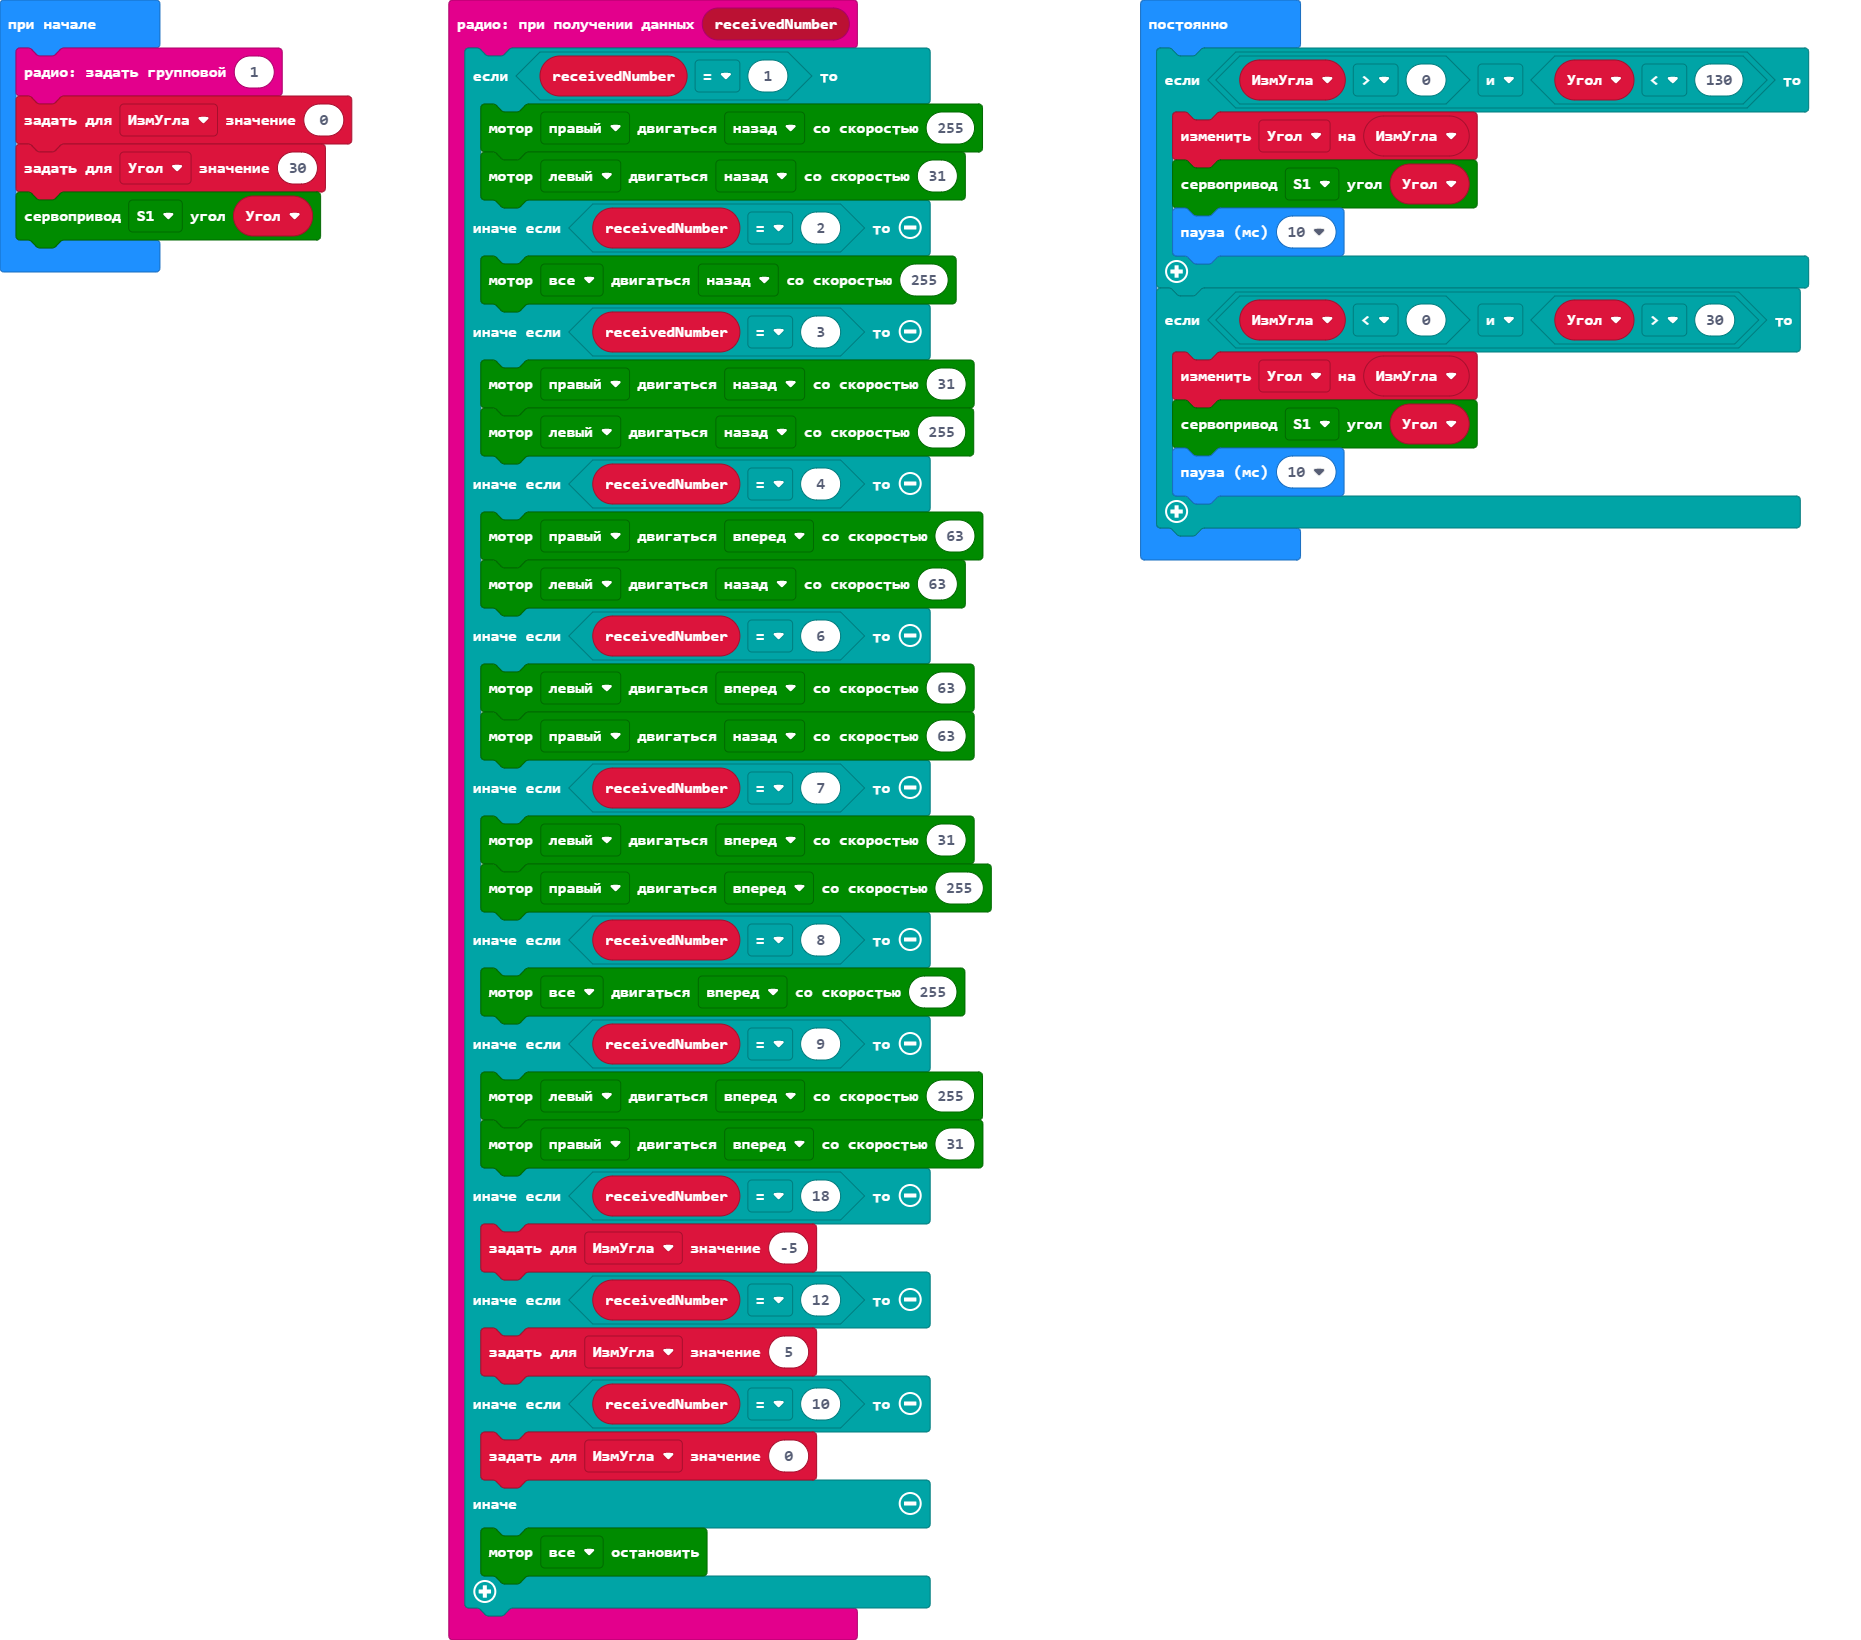
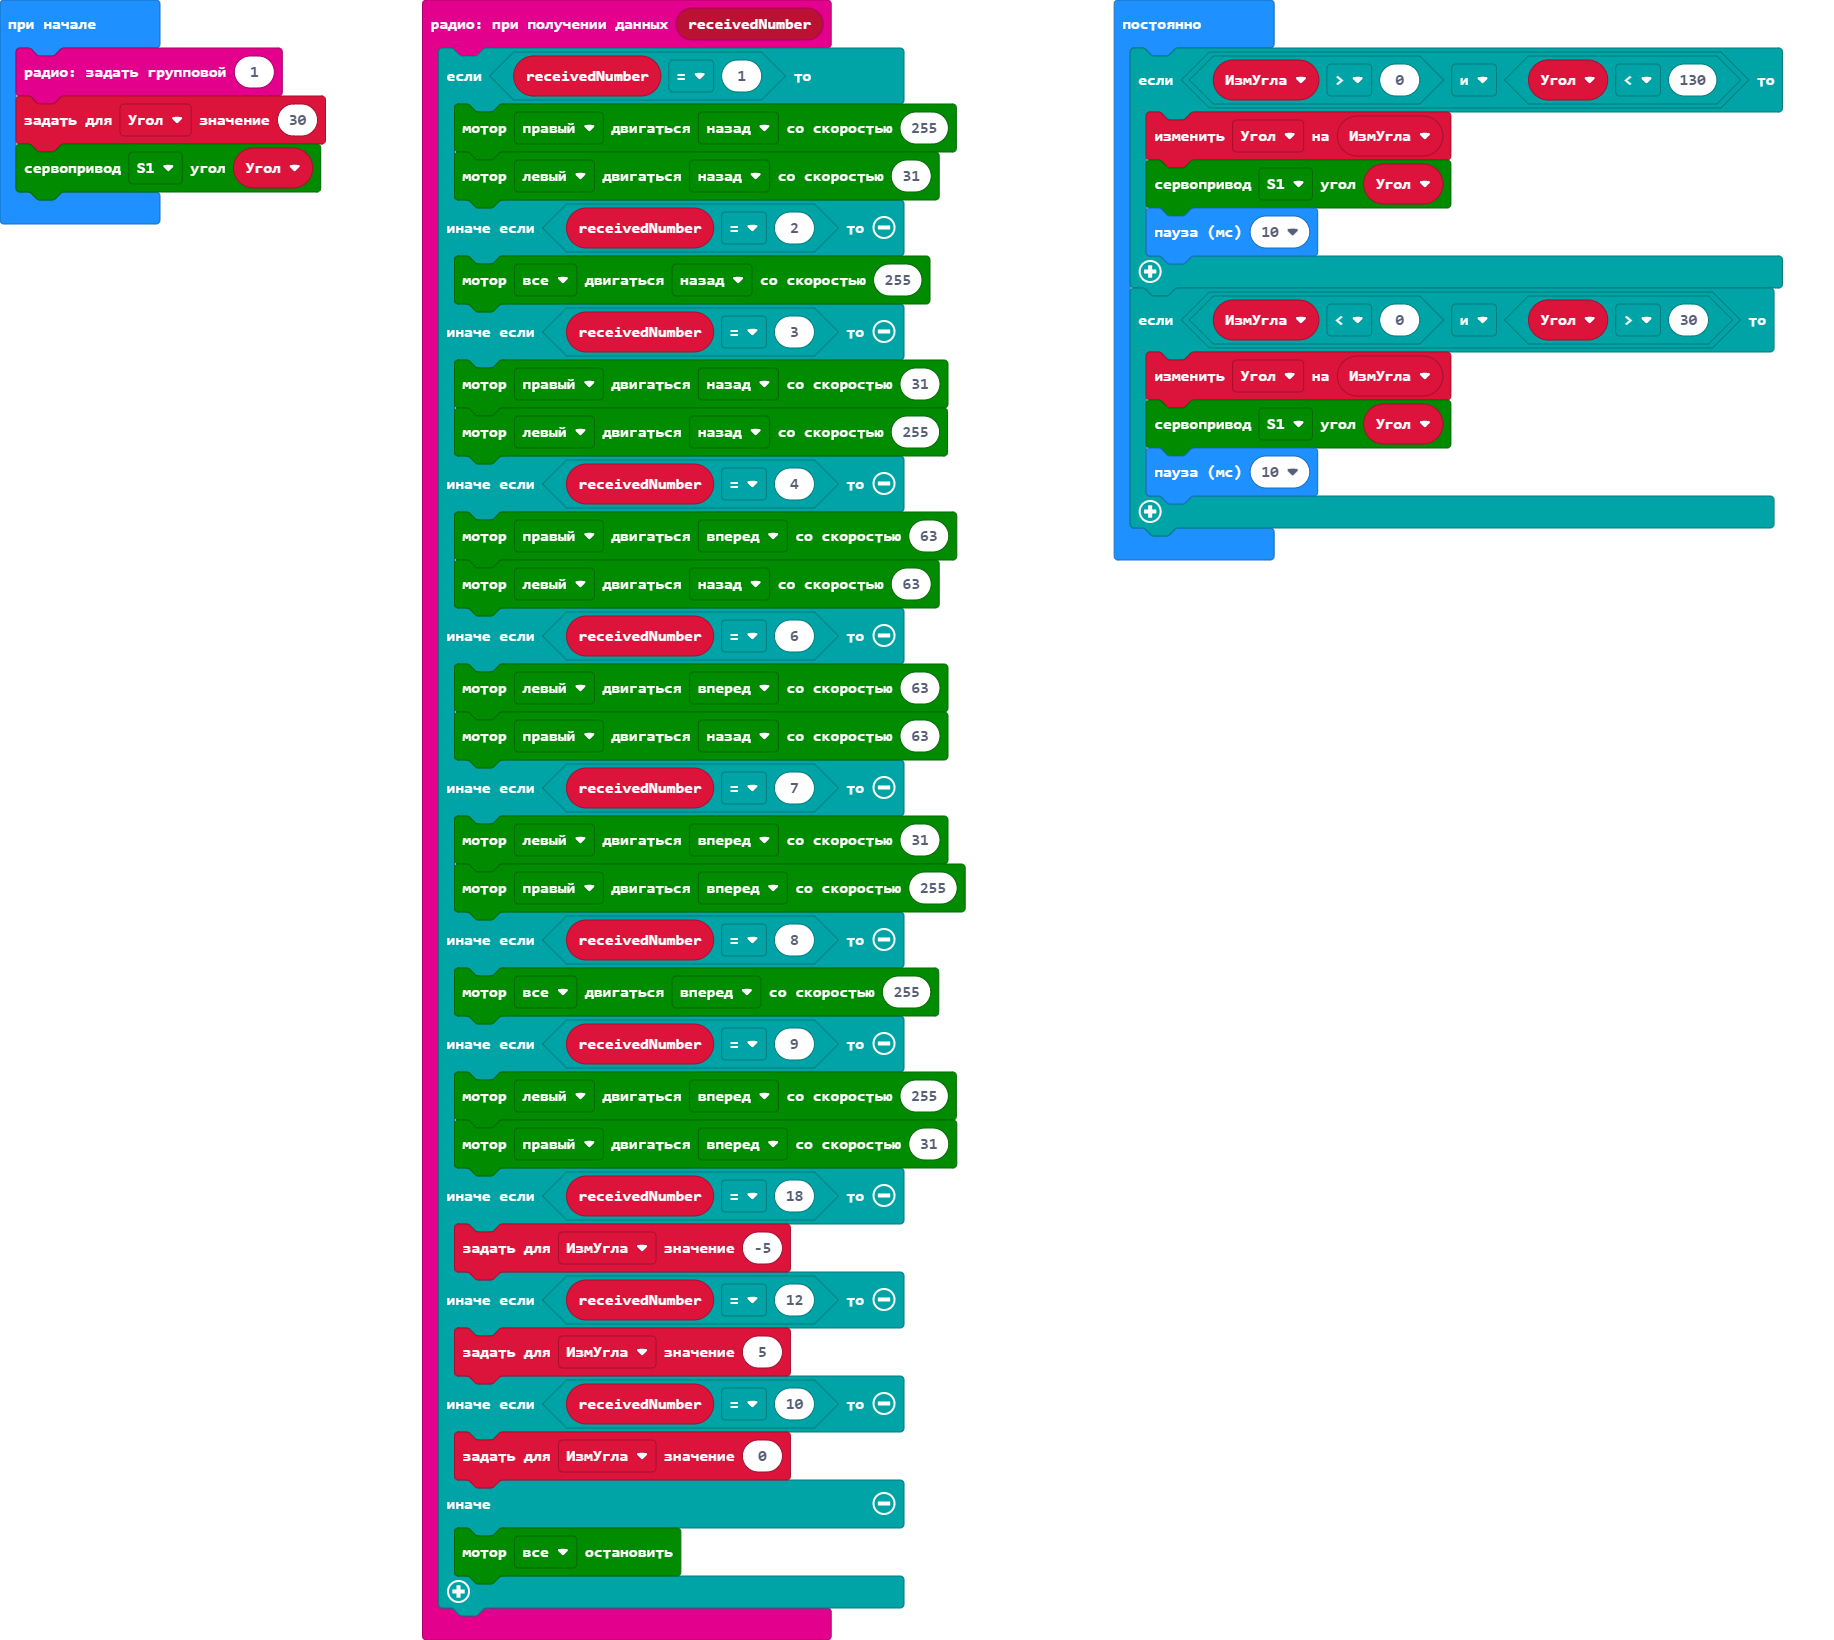
Update main.blocks, main.ts

diff --git a/main.ts b/main.ts
@@ -33,7 +33,6 @@ radio.onReceivedNumber(function (receivedNumber) {
 })
 let ИзмУгла = 0
 radio.setGroup(1)
-ИзмУгла = 0
 let Угол = 30
 maqueen.servoRun(maqueen.Servos.S1, Угол)
 basic.forever(function () {
